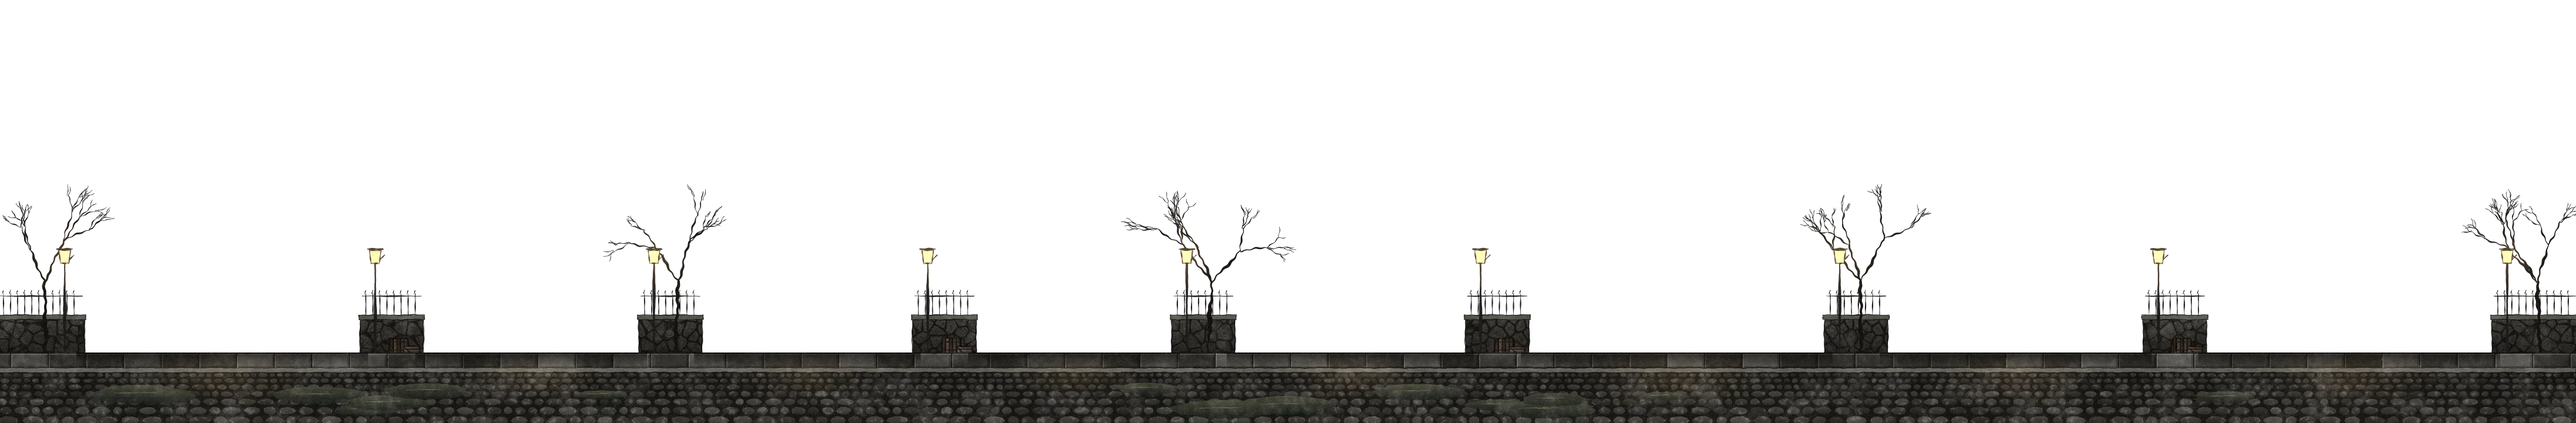
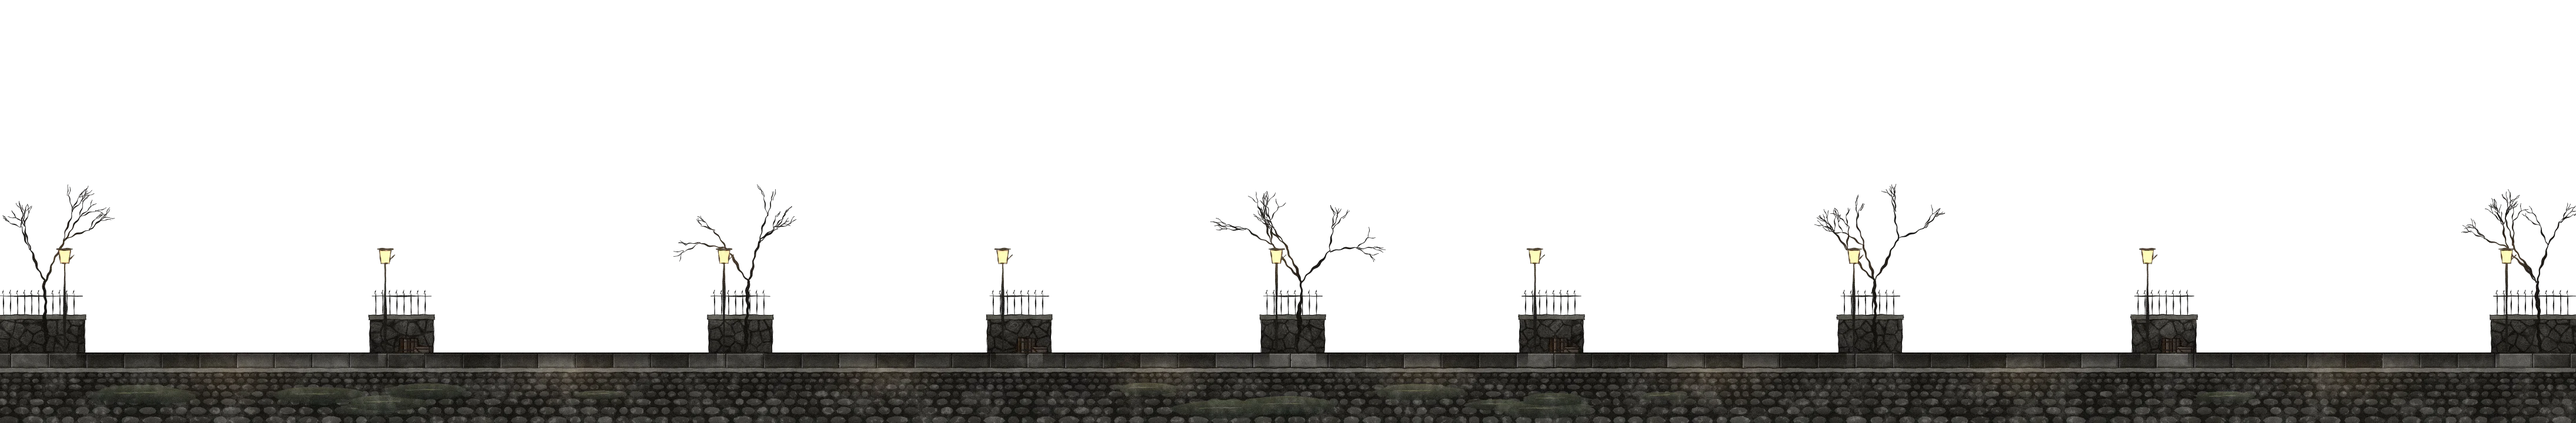
거리 배치·A/D 넘기기, 장비는 대장간, 창구 구매/판매 탭
Claude-Session: https://claude.ai/code/session_01Uvfio45vEZpjVpeBaGQidM

diff --git a/docs/ASSUMPTIONS.md b/docs/ASSUMPTIONS.md
@@ -496,7 +496,8 @@
 | CT36 | (2026-10-20 **삭제** — 사용자 "인연 관련이랑 명성 시스템 나중에 내가 제대로 기획해서 추가하게": 코드·데이터·문장을 모두 지웠다) ~~**귀환 결산·명성**: 원정에서 한 일을 **탐험 알림 키로 센다**(`GameState.deeds` — `ExploreScreen._notify`가 키마다 +1, 몬스터 처치는 `EventBus.monster_killed`). 계층군주 `explore.lord_defeated` 25 · 균열 탈출 `explore.rift_exit_escape` 20 · 정수 흡수 `reward.essence_absorbed` 3 · 처치 1(10마리 이상일 때만). 단계 0/20/60/140/280. 귀환하면 가장 앞의 일 하나로 **거리 대화창에 장면 한 줄**, 단계가 오르면 한 줄 더. 수치는 화면에 없다 — 사건·인연 조건으로만 쓰인다. 여관 '모험가들과 한잔'(효과 renown)도 +3 ~~ | 탐험 코드에 기록용 훅을 따로 넣지 않으려고(알림은 이미 모든 성과를 낸다). 기획안 C3 | `city.json renown`(deeds 추가 = 알림 키 하나) |
 | CT37 | **세금**(사용자 결정 2026-10-20 "설정 참고, 인간 세금은 타 종족보다 낮게"): 나무위키 설정(검색 요약 — 본문은 이 환경에서 열리지 않았다): 20세부터 도시민은 세금, 못 내면 사형 · 이종족 1년 차 70만·2년 차부터 80만 스톤 · 인간은 이종족보다 몇 배 적다 · 바바리안 왕가 2년 감면 · 용인 면제(삼신교 사제·성기사 면제, 출산 감면은 게임에 없어 뺐다). 게임: 해마다 **12번째 달 하순이 끝나 포탈로 떠나기 전까지 은행 '세금 납부'**(소지금에서), 못 냈으면 **처형 장면 → 사망과 같다**(저장 삭제). 금액 = by_year × **scale 0.02**(지금 1층 경제 — 마석 9등급 20스톤 — 로 원작 금액은 낼 수 없어서, 임시) × 인간 **0.3** × 바바리안 1~2년 차 0.5 → 인간 1년 차 4,200 · 2년 차부터 4,800, 바바리안 7,000 → 8,000 → 3년 차부터 16,000. 납부 기한 시기는 원문에 없어 연말로 가정. 달력 카드에 "세금 n 스톤 · 12번째 달까지"(낼 게 남았을 때만) | 원작 설정 + 사용자 결정. 시점·배율은 가정 | `city.json tax`(scale 1 = 원작 금액, race_rate·relief·exempt·due_month) |
 | CT38 | (2026-10-20 **삭제** — CT36과 같은 사용자 결정) ~~**인연**: 시설마다 한 사람(직함만 — 여관 주인·훈련 교관·사서·신관·상점 주인, 은행은 없음). 새 활동 **'말을 건다'**(공짜, 인연 +2 — 시설 방문 하나를 쓴다) + 그 시설 활동(gain 표)으로 점수가 쌓이고 단계(2/6/12/20/30 — 상점 2/6/10/16/24)를 채우면 장면이 열린다. 3·5단계는 명성 1·2단계가 필요. 단계마다 실익 하나(할인·선물·활동 해금·상점 할인)와 **능력치 판정 한 번**(물리내성 12·근력 12·정신력 10·항마력 10·민첩 12 — 한 번뿐, 실패해도 다음 단계는 열린다). 수치·단계는 화면에 없다 — 대사·값이 바뀌는 것으로 안다. 장면 문장은 새로 썼다(원작 문장 아님). 분위기는 냉소적이지만 조금씩 마음을 여는 쪽(사용자가 정하지 않아 가정) ~~ | 기획안 D. 판정 한 번 = 그때의 몸이 결과를 정한다(되돌리기 없음 — 하드코어) | `data/city_people/*.json`, 문장 `ko.json city.people` |
-| CT39 | **대장간·모험가 길드 = 자리만**(사용자 요청 2026-10-20 "그림이랑 내부 ui는 기존 건물과 비슷하게, 기능은 아직"): 거리 끝(훈련장 오른쪽)에 대장간 x 3206 → 모험가 길드 x 3748, 거리 길이 3246 → 4380. 그림은 다른 건물과 같은 문법(`tools/city_art/Buildings3`·`InteriorRooms2` — 대장간 = 그을린 돌집·큰 굴뚝·트인 화덕·모루 간판 · 길드 = 2층 목조 회관·게시판·깃발·방패 문장, 안에는 대장장이·접수원 한 명씩). 시설 JSON `"placeholder": true` + 활동 없음 → **들어가도 행동력을 쓰지 않고**(`CityState.entry_cost_of`) 선택지는 나가기 하나, 검증기는 '활동 없음'을 경고하지 않는다. 그림 시드는 시설 id 고정 순서(`paint_city.gd SEED_ORDER`)로 바꿔 시설이 늘어도 기존 그림이 바뀌지 않게 했다(`--facility=<id>`로 그 시설만 다시 그림) | 기능 명세 대기(길드 = 정보 구매·동료, 대장간 = 장비) — 행동력을 쓰고 아무것도 못 하면 손해라 0 | 기능을 넣으면 `placeholder`를 지우고 `activities`를 채운다 |
+| CT39 | (2026-10-20 대장간은 장비 창구가 됐다 → CT40, 자리 순서도 CT40) **대장간·모험가 길드 = 자리만**(사용자 요청 2026-10-20 "그림이랑 내부 ui는 기존 건물과 비슷하게, 기능은 아직"): 거리 끝(훈련장 오른쪽)에 대장간 x 3206 → 모험가 길드 x 3748, 거리 길이 3246 → 4380. 그림은 다른 건물과 같은 문법(`tools/city_art/Buildings3`·`InteriorRooms2` — 대장간 = 그을린 돌집·큰 굴뚝·트인 화덕·모루 간판 · 길드 = 2층 목조 회관·게시판·깃발·방패 문장, 안에는 대장장이·접수원 한 명씩). 시설 JSON `"placeholder": true` + 활동 없음 → **들어가도 행동력을 쓰지 않고**(`CityState.entry_cost_of`) 선택지는 나가기 하나, 검증기는 '활동 없음'을 경고하지 않는다. 그림 시드는 시설 id 고정 순서(`paint_city.gd SEED_ORDER`)로 바꿔 시설이 늘어도 기존 그림이 바뀌지 않게 했다(`--facility=<id>`로 그 시설만 다시 그림) | 기능 명세 대기(길드 = 정보 구매·동료, 대장간 = 장비) — 행동력을 쓰고 아무것도 못 하면 손해라 0 | 기능을 넣으면 `placeholder`를 지우고 `activities`를 채운다 |
+| CT40 | **거리 배치·넘기기·장비는 대장간**(사용자 결정 2026-10-20 "모험가 길드는 왼쪽 맨 앞, 대장간은 상점 옆 / A·D를 누르면 휙휙 다음 건물이 화면 중심에 오게 / 장비는 대장간에서 구매·판매 / 상점·대장간 구매·판매 탭을 나누고 W·S로 고르게"): 거리 순서 = 모험가 길드 · 여관 · 도서관 · 신전 · 상점 · 대장간 · 은행 · 훈련장(건물 사이 100, `facility_order`·`x`). **A/D 한 번 = 옆 건물**로 넘어가 그 건물이 화면 가운데에 온다(0.25초 미끄러짐 `render.json city.step_sec`, 누르고 있으면 계속, 끝 건물은 거리 끝까지만 — 연속 스크롤은 없앴다). **대장간 = 장비 창구**(`smithy_trade` — `deals: equipment`, 장비 = 아이템 category가 `city.json shop.equipment_categories`(무기·방어구 — 반지·목걸이도 방어구라 대장간)), **상점 = 장비 아닌 것만**(`shop_trade`·떠돌이 상인 `deals: goods` — 판매 목록은 돌빵·마른 식량·횃불·포션, 사들이는 것도 장비 제외). 대장간은 이제 기능이 있어 입장 행동력 1(`placeholder` 뗌). 창구 화면 = 먼저 **구매 / 판매 / 나가기**(W/S·Enter) → 목록(맨 끝 돌아가기, Backspace = 탭으로) | 사용자 결정. 횃불은 손에 드는 장비 칸이 있지만 소모품이라 상점에 남겼다 | `facility_order`·`x` · `step_sec` · 활동 `deals`·`stock` · `shop.equipment_categories` |
 
 ## 탐험 맵 그래픽 개편 A0 (2026-10-16, 사용자 지시 `docs/PROMPT_ART_MAP.md`)
 

diff --git a/docs/REFERENCE.md b/docs/REFERENCE.md
@@ -17,7 +17,7 @@
 - **상태이상 키(G4)**: `resist {stats}`(남이 건 것만 저항), `immune_if {stat, at_least}`, `on_max_stacks {status}`, `break_on_damage(_types)`, `heal_mult`, `misdirect {chance, pool, power_mult, ignore_defense}`, `battle_only`, 수정자 값에 수식 문자열(걸릴 때 계산).
 - **상태이상·정수 재기획(2026-10-19, J17)**: 공용 상태 = 이름 하나에 효과 하나(서리 = 민첩↓ 3중첩 → 빙결 = 못 움직임, 저항 스탯 상태마다 하나 — `docs/plans/status_redesign.md`). 상태 키 `after_immune`(풀린 뒤 면역)·`on_act`(행동할 때마다 — 출혈)·`heal_cures_stack`·`skip_chance`(마비·공포)·`hit_taken`/`crit_taken`(표식)·플래그 `draws_attacks`(끌어들이기 — 몬스터 무작위 공격이 `combat.taunt_chance`로 먼저). 새 효과 `consume_status`(상태 터뜨리기)·`gauge`(행동 게이지)·`cover`(대신 맞기 → 상태 `covered`, `BattleRules.apply_cover`), 피해 키 `power_if_hp_below`(처형)·`power_per_summon`, 패시브 `on_kill`·`power_vs_status`·`hit_vs_status`·`reflect_status`·`skip_bonus_vs`·`counter_while`, `apply_status` `if_target_status`, `soul_slash` `mult_if_status`. 새 공용 상태는 기존 것(격앙·신속·철벽·잠복·저주·혼미·취약·표식·끌어들이기)을 먼저 쓴다.
 - **도시(M4, 2026-10-14)**: 흐름 = 새 게임·귀환 → `CityScreen`(사망만 타이틀). 거리 좌표 = 화면 높이 720 기준 거리 단위(`render.json city`), 거리 = `city.json street.layers`(시차) 위에 시설 건물. 거리에서 시설을 고르면 행동력 `facility_entry_cost`(1) — **행동력은 입장에만 쓰고 시설 안 활동은 쓰지 않는다**, 활동은 `activities/<id>`(`cost_stones`·`effects[]`·`panel`). 순(상·중·하) × 12달, 순당 행동력 3, 다 쓰고 거리로 나오면 다음 순, **하순이 끝나면 저절로 차원광장 → 미궁**(`expedition_due`), 귀환하면 다음 달 상순(`return_from_dungeon`) (`CityState`, `GameState.city`). **시설 안 활동 한 번 → 결과를 대화창에서 넘기면 저절로 거리로**(나가기 버튼은 언제나 — 창구형은 선택판 맨 끝 나가기·Backspace·Esc로 마침, 할 게 없으면 바로 나옴, UI15). 규칙 값은 2026-10-15 모두 임시값(`docs/balance/city.md`, CT26) — null로 되돌리면 효과 없음(검증기 경고 `CityValues.nulls`), 디버그 F1은 `CityValues.tunables`를 `CityState.overrides`로 임시 변경(저장 안 됨). 피로도 = `PlayerCharacter.fatigue`(`Fatigue`, 미궁 연결 지점 `on_dungeon` 4곳, 단계 효과 `effects()` → 수정자 출처 `fatigue`). 상점은 아이템 price, 정수 제거는 `EssenceSet.remove`. 한 칸 저장은 차원광장에서만(`SaveGame`, 사망 시 삭제), 하순이 끝나면 차원광장(`PlazaScreen`, 포탈은 한 달에 한 번 `expedition_month`). 가정 CT1~CT33.
-- **도시 생활(2026-10-20, CT35·CT37·CT39)**: 오늘의 거리 `city_events/<id>` {facility, weight, when{from_month, periods[], weather[]}, activities[], once} · 활동 `"extra": true`(사건으로만 열린다 — 시설 activities 목록에 넣지 않는다), `stock`(상점 패널 활동의 자기 판매 목록) · 도시 효과 `pay_tax` · `city.json happenings{count[최소,최대]}` · `tax{by_year[], scale, race_rate{종족}, relief{종족:{years, ratio}}, exempt[], due_month}` · 문자열 `city.tax_execution.<n>`. 상태 `CityState` happenings·seen_once·tax_paid_year(저장). 시설 `"placeholder": true` = 기능 없는 자리(활동 없음, 입장 행동력 0 — 대장간·모험가 길드). 검사 `CityLifeRules`.
+- **도시 생활(2026-10-20, CT35·CT37·CT39)**: 오늘의 거리 `city_events/<id>` {facility, weight, when{from_month, periods[], weather[]}, activities[], once} · 활동 `"extra": true`(사건으로만 열린다 — 시설 activities 목록에 넣지 않는다), `stock`(상점 패널 활동의 자기 판매 목록) · 도시 효과 `pay_tax` · `city.json happenings{count[최소,최대]}` · `tax{by_year[], scale, race_rate{종족}, relief{종족:{years, ratio}}, exempt[], due_month}` · 문자열 `city.tax_execution.<n>`. 상태 `CityState` happenings·seen_once·tax_paid_year(저장). 시설 `"placeholder": true` = 기능 없는 자리(활동 없음, 입장 행동력 0 — 모험가 길드). 상점 창구 활동 `deals`: equipment(장비 — 아이템 category가 `city.json shop.equipment_categories`)·goods(장비 아닌 것) — 판매 목록·사들이는 것 모두 거른다(대장간 `smithy_trade` · 상점 `shop_trade`). 거리 넘기기 시간 `render.json city.step_sec`. 검사 `CityLifeRules`.
 
 ## 파일 구조(자세히)
 

diff --git a/docs/PROGRESS.md b/docs/PROGRESS.md
@@ -6,10 +6,10 @@
 
 ## 1. 한눈에 (2026-10-20)
 
-- **흐름**: 타이틀 → 캐릭터 만들기 → 도시 라비기온(순·행동력·시설 6곳 + 자리만 있는 대장간·모험가 길드 — 오늘의 거리·연말 세금) → 차원광장(한 칸 저장) → 미궁 1층(실시간 탐험 + CTB 전투) → 귀환 → 다음 달. 사망하면 바로 타이틀(저장 삭제).
+- **흐름**: 타이틀 → 캐릭터 만들기 → 도시 라비기온(순·행동력·시설 6곳 + 장비 창구 대장간·자리만 있는 모험가 길드 — 오늘의 거리·연말 세금) → 차원광장(한 칸 저장) → 미궁 1층(실시간 탐험 + CTB 전투) → 귀환 → 다음 달. 사망하면 바로 타이틀(저장 삭제).
 - **있음**: 1층 전부(733×733 고정 지도·동굴 요소 25종·계층군주·균열 4개 17챕터 — 챕터 사이는 이어진 길목, 오갈 수 있다), 몬스터 52·정수 50(재기획 적용)·스킬 약 270·상태이상 재기획, 정규 파티 5인(혼자면 랜덤 모험가 4명), 손그림풍 도시·전투·탐험 맵 그림, 키보드 전용 UI(Tab 메뉴·하단 대화창), 웹 내보내기.
-- **없음**: 2층(M6), 길드·대장간 기능(건물만 있음)·동료 고용, 환전·잡화점, 명성·인연(사용자 기획 대기), 묘비 목록, 부적·강제 개방 마석을 얻을 길, 균열 4종 동굴 요소 그림.
-- **검증**: `bash tools/check.sh` 모두 통과 — 데이터 경고 0, 단위 테스트 352, UI 스모크·메인 씬 스모크, 종료 시 누수 경고 0(2026-10-20).
+- **없음**: 2층(M6), 길드 기능(건물만 있음)·대장간 수리·동료 고용, 환전·잡화점, 명성·인연(사용자 기획 대기), 묘비 목록, 부적·강제 개방 마석을 얻을 길, 균열 4종 동굴 요소 그림.
+- **검증**: `bash tools/check.sh` 모두 통과 — 데이터 경고 0, 단위 테스트 353, UI 스모크·메인 씬 스모크, 종료 시 누수 경고 0(2026-10-20).
 - **알아 둘 것**: 수치(도시·동굴 요소·균열 밸런스)는 대부분 임시값이고, **처음부터 끝까지 한 판을 사람이 해 본 기록이 없다** — 체감 항목은 미확인.
 
 | 마일스톤 | 상태 |
@@ -52,6 +52,7 @@
 
 ## 3. 최근 작업 (위가 최신 — 자세한 것은 `docs/archive/PROGRESS_LOG.md`에서 제목으로 검색)
 
+- 2026-10-20 **거리 배치·A/D 넘기기·장비는 대장간**: 길드 맨 왼쪽·대장간은 상점 옆, A/D 한 번 = 옆 건물이 가운데로, 대장간 = 장비 창구·상점 = 그 밖의 것, 창구는 구매/판매 탭(W/S).
 - 2026-10-20 **대장간·모험가 길드 자리 · 명성·인연 삭제**: 거리 끝 두 건물(그림·실내, 기능 없음 — 입장 행동력 0), 명성·인연 시스템과 대사를 모두 지움(사용자가 다시 기획).
 - 2026-10-20 **도시 생활**: 오늘의 거리(순마다 등롱이 켜진 시설에 한정 활동) · 귀환 결산·명성(탐험 알림 키로 센다) · 인연 5명(장면·할인·해금·능력치 판정) · 세금(인간이 가장 적다, 미납 = 처형). 단위 테스트 355·스모크 세금 흐름.
 - 2026-10-20 **도시 재기획안**(2·4·5만 적용 — 위): 활협전·프린세스 메이커 2·다키스트 던전·페르소나·하데스 조사 → 지루한 원인과 제안 A~F(`docs/plans/city_redesign.md`).

diff --git a/docs/DESIGN.md b/docs/DESIGN.md
@@ -113,7 +113,7 @@
 
 ### 화면 — 횡스크롤 거리
 - 걸어 다니는 맵이 아니다. 라비기온 거리를 **옆에서 본 가로로 긴 그림**(미궁의 3/4 시점과 다름)을 좌우로 스크롤하며 시설 건물을 고른다. 시설 선택 뒤 활동 구성·선택 방식은 『활협전』의 화면 느낌만 참고(다른 시스템은 가져오지 않음).
-- 조작(2026-10-19 키보드만, UI17): A/D·←/→(이동 키)로 스크롤, 화면 가운데 건물을 Enter·F로 고른다(선택 = Enter, 취소 = Backspace — ASSUMPTIONS UI14). 모바일 웹은 터치 = 마우스 에뮬레이션.
+- 조작(2026-10-19 키보드만, UI17 · 2026-10-20 CT40): A/D·←/→ 한 번 = 옆 건물이 화면 가운데로(미끄러짐), 화면 가운데 건물을 Enter·F로 고른다(선택 = Enter, 취소 = Backspace — ASSUMPTIONS UI14). 모바일 웹은 터치 = 마우스 에뮬레이션.
 - 건물마다 이름판, 고를 수 있는(행동력이 되는) 건물은 금테·밝게, 못 고르면 흐리게. 거리에는 시설 6곳 외에 상호작용하는 것이 없다(시설은 데이터로 더 늘릴 수 있다).
 - 배치 순서(`city.json facility_order`, 없으면 각 시설 `order`)·위치(`x`)·건물 그림(`building`)·내부 그림(`interior`)·거리 레이어(`street.layers` — 하늘·원경·중경·안개·거리·비네트, 시차 스크롤)는 데이터. 크기·스크롤 속도는 `render.json city`. 그림은 `tools/paint_city.gd`가 만든 피어 앤 헝거 2풍 일러스트 WebP(손그림으로 덮어쓰기 가능, CT21~CT24).
 - 정보(2026-10-15): 왼쪽 위 달력(장소·날짜·순·행동력), 왼쪽 아래 탐험가(이름·레벨·소지금·생명력·피로도와 단계), 오른쪽 위 메뉴(소지품 / 캐릭터 / 타이틀로). 은행 잔액·공적치·소문 수는 그 시설 안에서만(CT25).
@@ -153,7 +153,7 @@
 - 저장: 한 칸 저장(차원광장에서만, CT32)에 `CityState.to_dict`(날짜·행동력·공적치·잔액·소문/정보·난수 상태)와 `progress_to_dict`(피로도·능력치 기록)가 들어간다.
 
 ### 도시 생활 (2026-10-20)
-- 오늘의 거리(`CityHappenings`, `data/city_events`) · 세금(`CityTax`, `city.json tax`) · 기능 없는 대장간·모험가 길드(시설 `placeholder`). 명성·인연은 넣었다가 지웠다(사용자가 다시 기획). 활협전은 여전히 화면 느낌만 참고한다. 규칙·수치는 ASSUMPTIONS CT34~CT39, 표는 `docs/balance/city.md`.
+- 오늘의 거리(`CityHappenings`, `data/city_events`) · 세금(`CityTax`, `city.json tax`) · 장비 창구 대장간(활동 `deals`) · 기능 없는 모험가 길드(시설 `placeholder`). 명성·인연은 넣었다가 지웠다(사용자가 다시 기획). 활협전은 여전히 화면 느낌만 참고한다. 규칙·수치는 ASSUMPTIONS CT34~CT39, 표는 `docs/balance/city.md`.
 
 ### 확인 필요 (예전 문서에 있었지만 이번 명세에 없는 것 — 지우지 않음)
 - 시설: **길드**(정보 구매·동료 고용), **환전소**(마석 → 스톤), **잡화점**(포션·횃불·식량·소모품, 전리품 판매 — 이번 '상점'과의 관계 확인 필요), **대장간**(장비 구매·수리), **중앙 거래소**(후반), 마도구점(PROMPT_ITEMS). 이번에 만들지 않았다(이미 만들어진 것도 없음).

diff --git a/docs/archive/PROGRESS_LOG.md b/docs/archive/PROGRESS_LOG.md
@@ -6,6 +6,13 @@
 
 ## 작업 기록 (2026-10-20 이후 — 위가 최신)
 
+- **거리 배치·A/D 넘기기·장비는 대장간·창구 탭 (2026-10-20, 사용자 "모험가 길드는 왼쪽 맨 앞. 대장간은 상점 옆 … ad 누르면 휙휙 다음 건물이 화면 중심에 오게 … 장비는 대장간에서 구매 판매 … 상점, 대장간의 구매 판매 탭을 나눠줘. ws로 구매 판매 선택")**:
+  - 배치: `facility_order` 길드 · 여관 · 도서관 · 신전 · 상점 · 대장간 · 은행 · 훈련장, `x` 다시 계산(건물 사이 100 — 길이 4380 그대로), 거리 바닥(street.webp)만 다시 그림(`--only=street` — 건물 그림은 그대로).
+  - `CityStreet.step(dir)`: A/D(`move_left/right`, 누르고 있으면 반복) = 옆 건물로 커서를 옮기고 Tween으로 그 건물 가운데까지(`city.step_sec` 0.25, 끝은 거리 끝까지만). 연속 스크롤(`_process`)과 `scroll_px_per_sec`는 지움. CityScreen이 거리를 멈추면(`set_process(false)` — 메뉴·대화창·정지 창) A/D도 무시.
+  - 장비: `city.json shop.equipment_categories` [weapon, armor], 활동 `deals`(equipment·goods) — `CityShop.deals/is_equipment`가 판매 목록·`can_sell`·`sellable`을 거른다. 대장간 `smithy_trade`(장비 14종), 상점 판매 목록 = 돌빵·마른 식량·횃불·포션 둘, 떠돌이 상인의 반지·목걸이 → 노움의 반짝이 돌. 대장간 `placeholder` 뗌(입장 행동력 1). 검증: 창구의 판매 목록이 deals와 맞는지(`CityRules._trade`).
+  - 창구 화면: `ShopPanel.mode` "" → 구매/판매/나가기, 목록 끝 돌아가기, Backspace = 탭으로(`CityPanel.back_action`·`rebuild(cursor)`).
+  - 시험: `test_equipment_only_at_smithy`, 스모크(D·A 한 번 = 옆 건물·가운데 · 상점 구매 탭 → 구매 · 판매 탭 W/S · 장비 없음). check.sh 통과(353). 캡처로 거리·대장간 창구 확인.
+
 - **대장간·모험가 길드 자리 + 명성·인연 삭제 (2026-10-20, 사용자 "인연 관련이랑 명성 시스템 나중에 내가 제대로 기획해서 추가하게 — 전부 제거" / "대장간이랑 모험가 길드를 도시에 구현해줘. 그림이랑 내부 ui는 기존 건물과 비슷하게, 기능은 아직")**:
   - 삭제: `CityBonds`·`CityRenown`·효과 bond·renown·`data/city_people`·말 걸기 5·인연 해금 활동 5·모험가 무리 사건과 한잔 활동·`city.json renown`·`GameState.deeds`(탐험 알림 세기)·귀환 장면·문장(city.people·city.return·말 걸기 한마디)·디버그 명성/인연 버튼·캡처 --return/--renown/--bond·시험 3개. 모험가 대련 사건은 명성 조건만 빼고 남김. 오늘의 거리·세금은 그대로.
   - 추가: 시설 `smithy`(대장간, x 3206)·`guild`(모험가 길드, x 3748), 거리 길이 4380, `"placeholder": true`(활동 없음 → 입장 행동력 0·나가기만·검증 경고 없음). 그림 `tools/city_art/Buildings3.gd`(건물 둘)·`InteriorRooms2.gd`(실내 둘 — 대장장이·접수원)·Icons anvil·crest. `paint_city.gd` 그림 시드를 시설 id 고정 순서로(새 시설 때문에 기존 그림이 바뀌던 것) + `--facility=<id>`. 거리 레이어 4장(street·far·mid·haze)은 길이가 늘어 다시 그렸다. 캡처로 거리·실내 확인.

diff --git a/docs/CANON.md b/docs/CANON.md
@@ -59,11 +59,11 @@
 
 ## 6. 도시 — 라프도니아 라비기온 구역
 
-- 횡스크롤 거리 그림(피어 앤 헝거 2풍)에서 시설을 고른다. 시설 6곳(+ 기능 없는 대장간·모험가 길드): 여관(휴식 = 피로 −40·생명력/영혼력 전부, 식사 = 피로 −15·남은 음식), 도서관(독서 — 정보·정신력 확률·피로 +10), 신전(정수 제거·봉사 공적치), 상점(사고팔기, 마석도), 은행(맡기기·찾기·이자), 훈련장(능력치 확률·피로 +20).
+- 횡스크롤 거리 그림(피어 앤 헝거 2풍)에서 시설을 고른다 — **A/D 한 번 = 옆 건물이 화면 가운데로**(CT40). 거리 순서 = 모험가 길드(기능 없음) · 여관 · 도서관 · 신전 · 상점 · 대장간 · 은행 · 훈련장. **장비(무기·방어구)는 대장간**, 상점은 그 밖의 것만 사고판다 — 창구는 구매/판매 탭(W/S). 시설: 여관(휴식 = 피로 −40·생명력/영혼력 전부, 식사 = 피로 −15·남은 음식), 도서관(독서 — 정보·정신력 확률·피로 +10), 신전(정수 제거·봉사 공적치), 상점(사고팔기, 마석도), 은행(맡기기·찾기·이자), 훈련장(능력치 확률·피로 +20).
 - 한 달 = 상순·중순·하순, 순마다 행동력 3. **행동력은 시설에 들어갈 때만 1**, 시설 안 활동 한 번 → 결과를 대화창에서 넘기면 저절로 거리로, 활동 전에도 **나가기 버튼**으로 나갈 수 있다(행동력은 돌려주지 않음, UI15). 하단 대화창 = 탐험 알림·전투 안내·시설 결과를 Enter로 넘김(UI15). 하순이 끝나면 차원광장. 날씨는 순마다 무작위. 값은 모두 임시값(`docs/balance/city.md`, CT26). (CT1~CT33)
 - **도시 생활(2026-10-20, CT34·CT35·CT37)**: **오늘의 거리** = 순마다 시설 1~2곳에 사건(교관 특강·떠돌이 상인·축일 …), 거리에서 그 건물 등롱이 켜진다. **세금** = 해마다 12번째 달 하순 전까지 은행에서, 못 내면 처형(사망과 같다) — 인간이 가장 적다(원작 70만/80만 × 배율 0.02 임시, 인간 ×0.3, 바바리안 2년 감면, 용인 면제). 명성·인연은 넣었다가 지웠다(사용자가 다시 기획, CT36·CT38). 활협전은 화면 느낌만.
-- **대장간·모험가 길드(2026-10-20, CT39)**: 거리 끝에 건물·실내 그림만 있다(기능 없음 — 들어가도 행동력을 쓰지 않고 나가기만).
-- 없는 것(명세가 오면): 길드 기능(정보 구매·동료), 대장간 기능, 환전소, 잡화점, 대신전 치료, 신관 영입, 소문·정보를 다시 보는 창, 명성·인연(사용자 기획 대기).
+- **대장간·모험가 길드(2026-10-20, CT39·CT40)**: 대장간 = 장비 구매·판매 창구. 모험가 길드 = 건물·실내 그림만(기능 없음 — 들어가도 행동력을 쓰지 않고 나가기만).
+- 없는 것(명세가 오면): 길드 기능(정보 구매·동료), 대장간 수리·제작, 환전소, 잡화점, 대신전 치료, 신관 영입, 소문·정보를 다시 보는 창, 명성·인연(사용자 기획 대기).
 
 ## 7. 조작 (2026-10-19, UI14·UI17·UI18)
 

diff --git a/docs/balance/city.md b/docs/balance/city.md
@@ -38,7 +38,8 @@
 
 | 항목 | 값 |
 |---|---|
-| 판매 목록 `stock` | 돌빵·마른 식량·횃불·하급/중급 포션·사냥용 단검·철퇴·강철 검·강철 창·사냥 활·나무 방패·가죽 두건·철 투구·가죽 갑옷·누빔 갑옷·여행용 망토·가죽 장갑·가죽 허리띠·가죽 장화 (19개 — 보석·장신구·유물·균열 물건은 안 판다) |
+| 상점 판매 목록 `stock` | 돌빵·마른 식량·횃불·하급/중급 포션 (장비가 아닌 것만 — 2026-10-20) |
+| 대장간 판매 목록(활동 `smithy_trade.stock`) | 사냥용 단검·철퇴·강철 검·강철 창·사냥 활·나무 방패·가죽 두건·철 투구·가죽 갑옷·누빔 갑옷·여행용 망토·가죽 장갑·가죽 허리띠·가죽 장화 — 장비(무기·방어구)는 대장간에서만 사고판다 |
 | 판매가 `sell_ratio` | 가격의 50% |
 | 마석 매입 `accepts_magic_stones` · `magic_stone_ratio` | 받는다 · 가격의 100%(화폐처럼 제값) |
 
@@ -81,7 +82,7 @@
 |---|---|---|---|---|
 | 교관 특강 `lecture` | 훈련장 | 2 | — | 교관 특강 150 · 근력·민첩·물리내성 중 하나 +1 60% · 피로 +25 |
 | 모험가 대련 `sparring` | 훈련장 | 1 | — | 모험가와 대련 0 · 민첩 +1 50% · 피로 +15 |
-| 떠돌이 상인 `peddler` | 상점 | 2 | 2번째 달부터 | 떠돌이 상인(창구) · 타다 남은 횃불·수정 버섯·샘물 병·뼈 목걸이·구리 반지 |
+| 떠돌이 상인 `peddler` | 상점 | 2 | 2번째 달부터 | 떠돌이 상인(창구) · 타다 남은 횃불·수정 버섯·샘물 병·노움의 반짝이 돌 |
 | 축일 `feast_day` | 신전 | 1 | 맑음 | 축일 미사 0 · 공적치 +25 · 피로 −10 |
 | 정화 의식 `cleansing` | 신전 | 1 | 흐림·안개 | 정화 의식 80 · 피로 −30 |
 | 희귀서 입고 `rare_books` | 도서관 | 2 | — | 희귀서 열람 80 · 정신력 +1 60% · 피로 +10 |

diff --git a/docs/PLAYTEST.md b/docs/PLAYTEST.md
@@ -17,8 +17,10 @@
 | 2 | 불빛이 켜진 시설에 들어간다 | 선택지 맨 위에 그 순에만 있는 활동(교관 특강·특식·희귀서 열람 …) |
 | 3 | 달력 카드를 본다 | "세금 n 스톤 · 12번째 달까지"(인간이 바바리안보다 적다). 은행 '세금 납부'로 내면 사라진다 |
 | 4 | 세금을 내지 않고 12번째 달 하순을 마친다(F1 '세금 기한으로'로 빠르게) | 경비대 장면 뒤 바로 타이틀, 이어하기 기록이 지워져 있다 |
-| 5 | 거리 오른쪽 끝까지 간다 | 훈련장 다음에 대장간(굴뚝·화덕 불빛·모루)과 모험가 길드(게시판·깃발) |
-| 6 | 대장간·모험가 길드에 들어간다 | 실내 그림(대장장이·접수원)과 '나가기'만. 행동력이 줄지 않는다 |
+| 5 | 도시에 들어와 A/D를 한 번씩 누른다 | 한 번에 옆 건물로 휙 넘어가 그 건물이 화면 가운데에 온다(누르고 있으면 계속). 맨 왼쪽은 모험가 길드, 상점 바로 오른쪽이 대장간 |
+| 6 | 모험가 길드에 들어간다 | 실내 그림(접수원)과 '나가기'만. 행동력이 줄지 않는다 |
+| 7 | 대장간 → 구매·판매 | 먼저 구매/판매/나가기(W/S·Enter). 구매 = 무기·방어구만, 판매 = 가방의 장비만. Backspace = 탭으로 돌아감 |
+| 8 | 상점 → 구매·판매 | 같은 탭. 구매 목록에 장비가 없고, 판매 탭에 장비가 안 뜬다 |
 | 체감 | 한 해를 해 본다 | 매 순 고를 것이 달라지는가, 세금 액수가 수입에 비해 적당한가(지금 배율 0.02 — `city.json tax.scale`) |
 
 ### 균열 챕터 길목 — 이어진 길 · 오가기 (2026-10-20)
